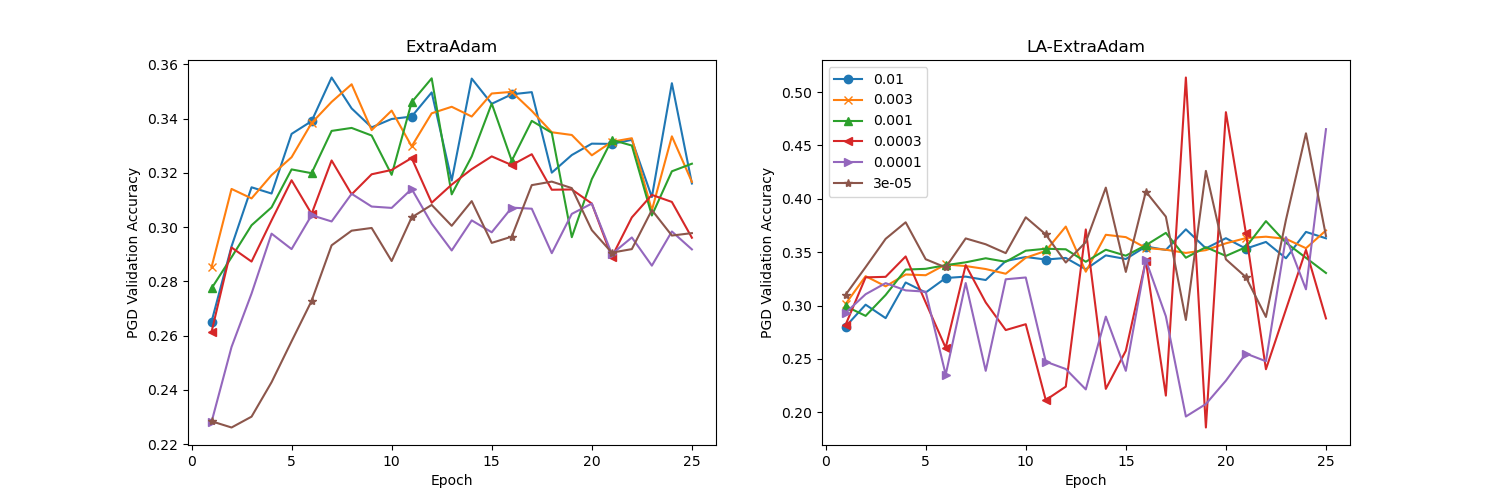
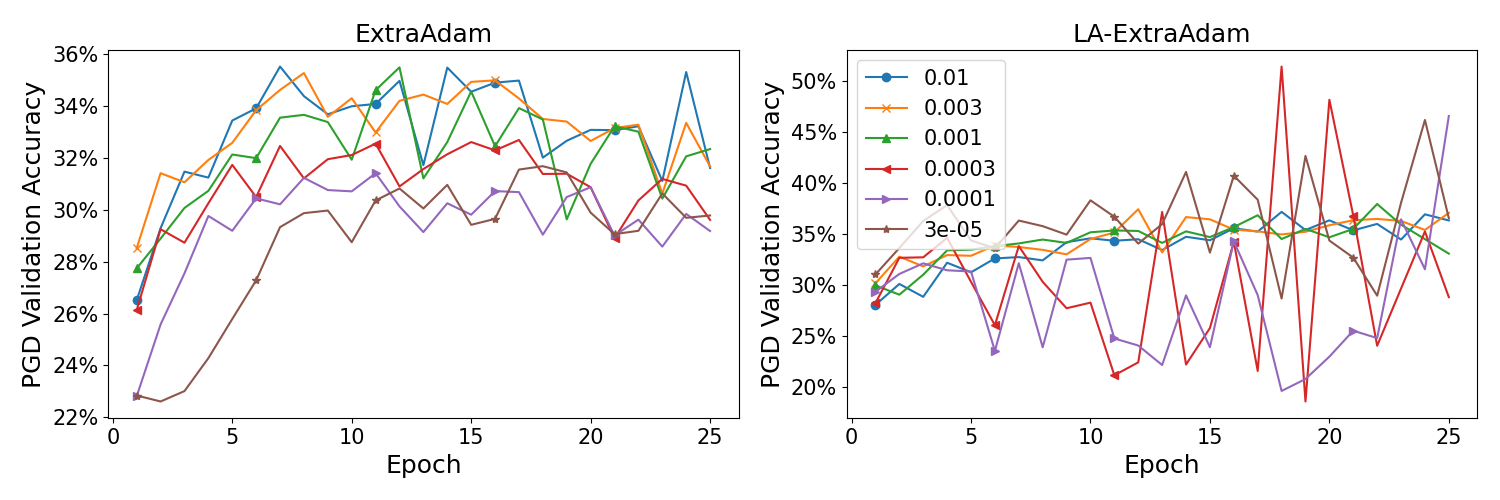
update hyperparam eval

diff --git a/Hyperparam_tuning/fast_lr_robustness_eval.py b/Hyperparam_tuning/fast_lr_robustness_eval.py
@@ -2,8 +2,9 @@ import matplotlib.pyplot as plt
 import os
 from pathlib import Path
 from Utils.visualization_utils import *
-from Utils import project_utils
-from easydict import EasyDict
+import matplotlib
+from matplotlib.ticker import FuncFormatter
+
 markers=('o', 'x', '^', '<', '>', '*', 'h', 'H', 'D', 'd', 'P', 'X', '8', 's', 'p')
 
 dataset = 'CIFAR10'
@@ -208,13 +209,18 @@ def lr_acc():
             filename = "Analysis/{}/LR_robustness_optimal_k_alpha/adv_{}_valid_results_mean_std/{}.csv".format(
                 dataset, attack, optim_name)
 
-        ax[1].legend(learning_rates)
+        ax[1].legend(learning_rates, prop={'size': 15})
         ax[0].set_title('{}'.format(optim_name))
         ax[1].set_title('LA-{}'.format(optim_name))
-        ax[0].set_ylabel('PGD Validation Accuracy')
-        ax[1].set_ylabel('PGD Validation Accuracy')
+        ax[0].set_ylabel('PGD Validation Accuracy', fontsize=18)
+        ax[1].set_ylabel('PGD Validation Accuracy', fontsize=18)
+
         for a in ax:
-            a.set_xlabel('Epoch')
+            a.set_xlabel('Epoch', fontsize=18)
+            a.yaxis.set_major_formatter(FuncFormatter(lambda y, _: '{:.0%}'.format(y)))
+        font = {'size': 15}
+        matplotlib.rc('font', **font)
+        matplotlib.pyplot.tight_layout()
         plt.savefig(filename[:-4]+'.png')
         plt.show()
 
